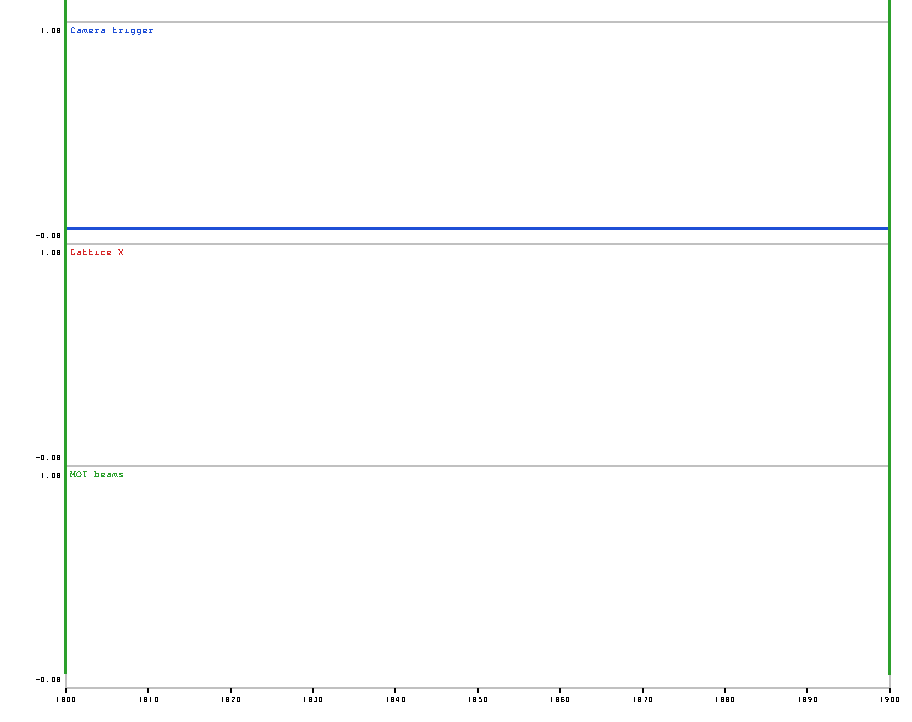
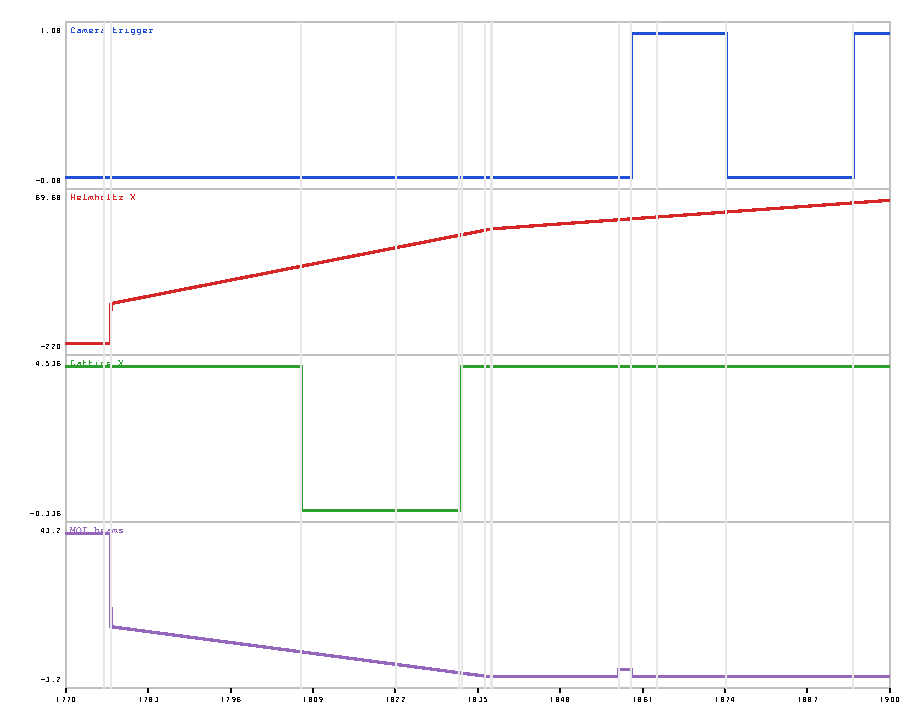
Plot: clip traces to the visible time range with boundary interpolation

diff --git a/supertime_editor/app.py b/supertime_editor/app.py
@@ -682,7 +682,11 @@ class PlotWindow(tk.Toplevel):
                 c = ch if s_ is self.seq else self.seq_b.find_channel(self.seq.channel_names()[ch])
                 pts = s_.trace(c, self.app.set_index if s_ is self.seq else 0)
                 pts_all.append((pts, col, tag))
-            vals = [v for pts, _, _ in pts_all for t, v in pts if ta <= t <= tb] or [0.0]
+            clipped = []
+            for pts, col, tag in pts_all:
+                clipped.append((self._clip(pts, ta, tb), col, tag))
+            pts_all = clipped
+            vals = [v for pts, _, _ in pts_all for t, v in pts] or [0.0]
             vmin, vmax = min(vals), max(vals)
             if vmax == vmin:
                 vmax = vmin + 1.0
@@ -703,8 +707,7 @@ class PlotWindow(tk.Toplevel):
             for pts, col, tag in pts_all:
                 coords = []
                 for t, v in pts:
-                    tt = min(max(t, ta), tb)
-                    coords.extend([X(tt), Y(v)])
+                    coords.extend([X(t), Y(v)])
                 if len(coords) >= 4:
                     cv.create_line(*coords, fill=col, width=1 if tag == u"B" else 2, dash=(4, 3) if tag == u"B" else None)
         # time axis
@@ -722,6 +725,32 @@ class PlotWindow(tk.Toplevel):
                     cv.create_line(x, T, x, H - B, fill="#e8e8e8")
                     cv.create_text(x + 2, T + 2, text=self.seq.edges[i][E_NAME][:18], anchor="nw", angle=270,
                                    fill="#909090", font=("TkDefaultFont", 7)) if (tb - ta) < 60 else None
+
+    @staticmethod
+    def _clip(pts, ta, tb):
+        """Clip a (t, v) polyline to [ta, tb], interpolating at the boundaries."""
+        out = []
+        for k in range(len(pts)):
+            t, v = pts[k]
+            if k > 0:
+                t0, v0 = pts[k - 1]
+                for tc in (ta, tb):                      # boundary crossings
+                    if (t0 < tc < t) or (t < tc < t0):
+                        f = (tc - t0) / (t - t0) if t != t0 else 0.0
+                        out.append((tc, v0 + f * (v - v0)))
+            if ta <= t <= tb:
+                out.append((t, v))
+        if pts and not out:                             # whole trace outside: show the held value
+            before = [p for p in pts if p[0] <= ta]
+            if before:
+                out = [(ta, before[-1][1]), (tb, before[-1][1])]
+        elif out and out[0][0] > ta:
+            before = [p for p in pts if p[0] <= ta]
+            if before:
+                out.insert(0, (ta, before[-1][1]))
+        if out and out[-1][0] < tb:
+            out.append((tb, out[-1][1]))
+        return out
 
     def _motion(self, e):
         L, R, T, B, ta, tb, W, H = self.geom
